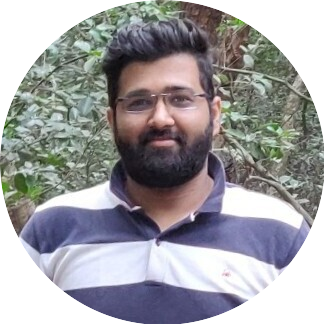
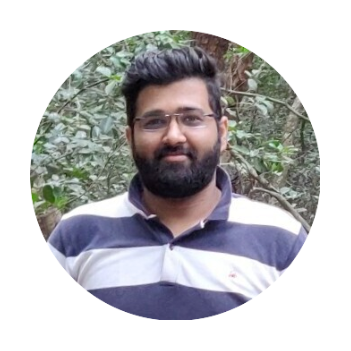
Update CFP and Images

diff --git a/public/index.html b/public/index.html
@@ -57,6 +57,7 @@
           <li><a href="#volunteers">Volunteers</a></li>
           <li><a href="#contact">Contact</a></li>
           <li class="buy-tickets"><a href="https://forms.gle/Vf5wE6rseHP8npycA" target="_blank">Register Now</a></li>
+          <li class="buy-tickets"><a href="https://www.papercall.io/osconfkochi2020" target="_blank">CFP</a></li>
         </ul>
       </nav><!-- #nav-menu-container -->
     </div>
@@ -105,7 +106,7 @@
         <div class="row">
           <div class="col-lg-3 col-md-5">
             <div class="speaker">
-              <img src="assets/img/speakers/ajeet-sing.gif" alt="Speaker 1" class="img-fluid">
+              <img src="assets/img/speakers/osconf-ajeet.png" alt="Speaker 1" class="img-fluid">
               <div class="details">
                 <h3><a href="https://www.linkedin.com/in/ajeetsraina/" target="_blank">Ajeet Singh Raina</a></h3>
                 <p>Collabnix, Docker Captain</p>
@@ -153,7 +154,7 @@
               <div class="col-md-2"><time>09:00 AM</time></div>
               <div class="col-md-10">
                 <div class="speaker">
-                  <img src="assets/img/speakers/ajeet-sing.gif" alt="Ajeet Singh Raina">
+                  <img src="assets/img/speakers/osconf-ajeet.png" alt="Ajeet Singh Raina">
                 </div>
                 <h4>Keynote <span> <a href="https://www.linkedin.com/in/ajeetsraina/" target="_blank"> Ajeet Singh Raina </a></span></h4>
                 <p>Collabnix, Docker Captain</p>
@@ -427,15 +428,16 @@
         </div>
 
         <div class="row">
+
           <div class="col-lg-3 col-md-5">
             <div class="volunteer">
-              <img src="assets/img/volunteers/ajeet-sing.gif" alt="Vol 1" class="img-fluid">
+              <img src="assets/img/volunteers/osconf-ajeet.png" alt="Vol 1" class="img-fluid">
               <div class="details">
-                <h3><a href="https://www.linkedin.com/in/ajeetsraina/">Ajeet Singh Raina</a></h3>
+                <h3><a href="https://www.linkedin.com/in/ajeetsraina/" target="_blank"> Ajeet Singh Raina</a></h3>
                 <p>Collabnix, Docker Captain</p>
                 <div class="social">
-                  <a href="https://twitter.com/ajeetsraina"><i class="fa fa-twitter"></i></a>
-                  <a href="https://www.linkedin.com/in/ajeetsraina/"><i class="fa fa-linkedin"></i></a>
+                  <a href="https://twitter.com/ajeetsraina" target="_blank"><i class="fa fa-twitter"></i></a>
+                  <a href="https://www.linkedin.com/in/ajeetsraina/" target="_blank"><i class="fa fa-linkedin"></i></a>
                 </div>
               </div>
             </div>
@@ -446,15 +448,31 @@
               <div class="volunteer">
                 <img src="assets/img/volunteers/osconf-apurva.png" alt="Vol 2" class="img-fluid">
                 <div class="details">
-                  <h3><a href="https://www.linkedin.com/in/apurvabhandari-linux/"> Apurva Bhandari </a></h3>
-                  <p>Site Reliability Engineer, Vuclip</p>
+                  <h3><a href="https://www.linkedin.com/in/apurvabhandari-linux/" target="_blank"> Apurva Bhandari </a></h3>
+                  <p>Collabnix, Site Reliability Engineer - Vuclip</p>
                   <div class="social">
-                    <a href="https://twitter.com/Apurv_Bhandari"><i class="fa fa-twitter"></i></a>
-                    <a href="https://www.linkedin.com/in/apurvabhandari-linux/"><i class="fa fa-linkedin"></i></a>
+                    <a href="https://twitter.com/Apurv_Bhandari" target="_blank"><i class="fa fa-twitter"></i></a>
+                    <a href="https://www.linkedin.com/in/apurvabhandari-linux/" target="_blank"><i class="fa fa-linkedin"></i></a>
                   </div>
                 </div>
               </div>
             </div>   
+
+
+            <div class="col-lg-3 col-md-5">
+              <div class="volunteer">
+                <img src="assets/img/volunteers/osconf-dijeesh.png" alt="Vol 2" class="img-fluid">
+                <div class="details">
+                  <h3><a href="https://www.linkedin.com/in/dijeesh-padinharethil/" target="_blank"> Dijeesh Padinharethil </a></h3>
+                  <p>AWSUGKOCHI, Ass: Director Cloud Services - Network Redux</p>
+                  <div class="social">
+                    <a href="https://twitter.com/dijeeshpnair" target="_blank"><i class="fa fa-twitter"></i></a>
+                    <a href="https://www.linkedin.com/in/dijeesh-padinharethil/" target="_blank"><i class="fa fa-linkedin"></i></a>
+                  </div>
+                </div>
+              </div>
+            </div>               
+
         </div>                   
 
     </section><!-- End Speakers Section -->    
@@ -641,7 +659,7 @@
         Licensing information: https://bootstrapmade.com/license/
         Purchase the pro version with working PHP/AJAX contact form: https://bootstrapmade.com/buy/?theme=TheEvent
       -->
-        Designed by folks @ <a href="#https://github.com/awsugkochi/communityday.awsugkochi.in#design--moderators" target="_blank">Collabnix <span style="color: #e25555;">&hearts;</span> </a>      
+        Designed by folks @ <a href="https://github.com/dijeesh/osconf-kochi-2020#site-moderators" target="_blank">Collabnix <span style="color: #e25555;">&hearts;</span> </a>      
       </div>
     </div>
   </footer><!-- End  Footer -->
